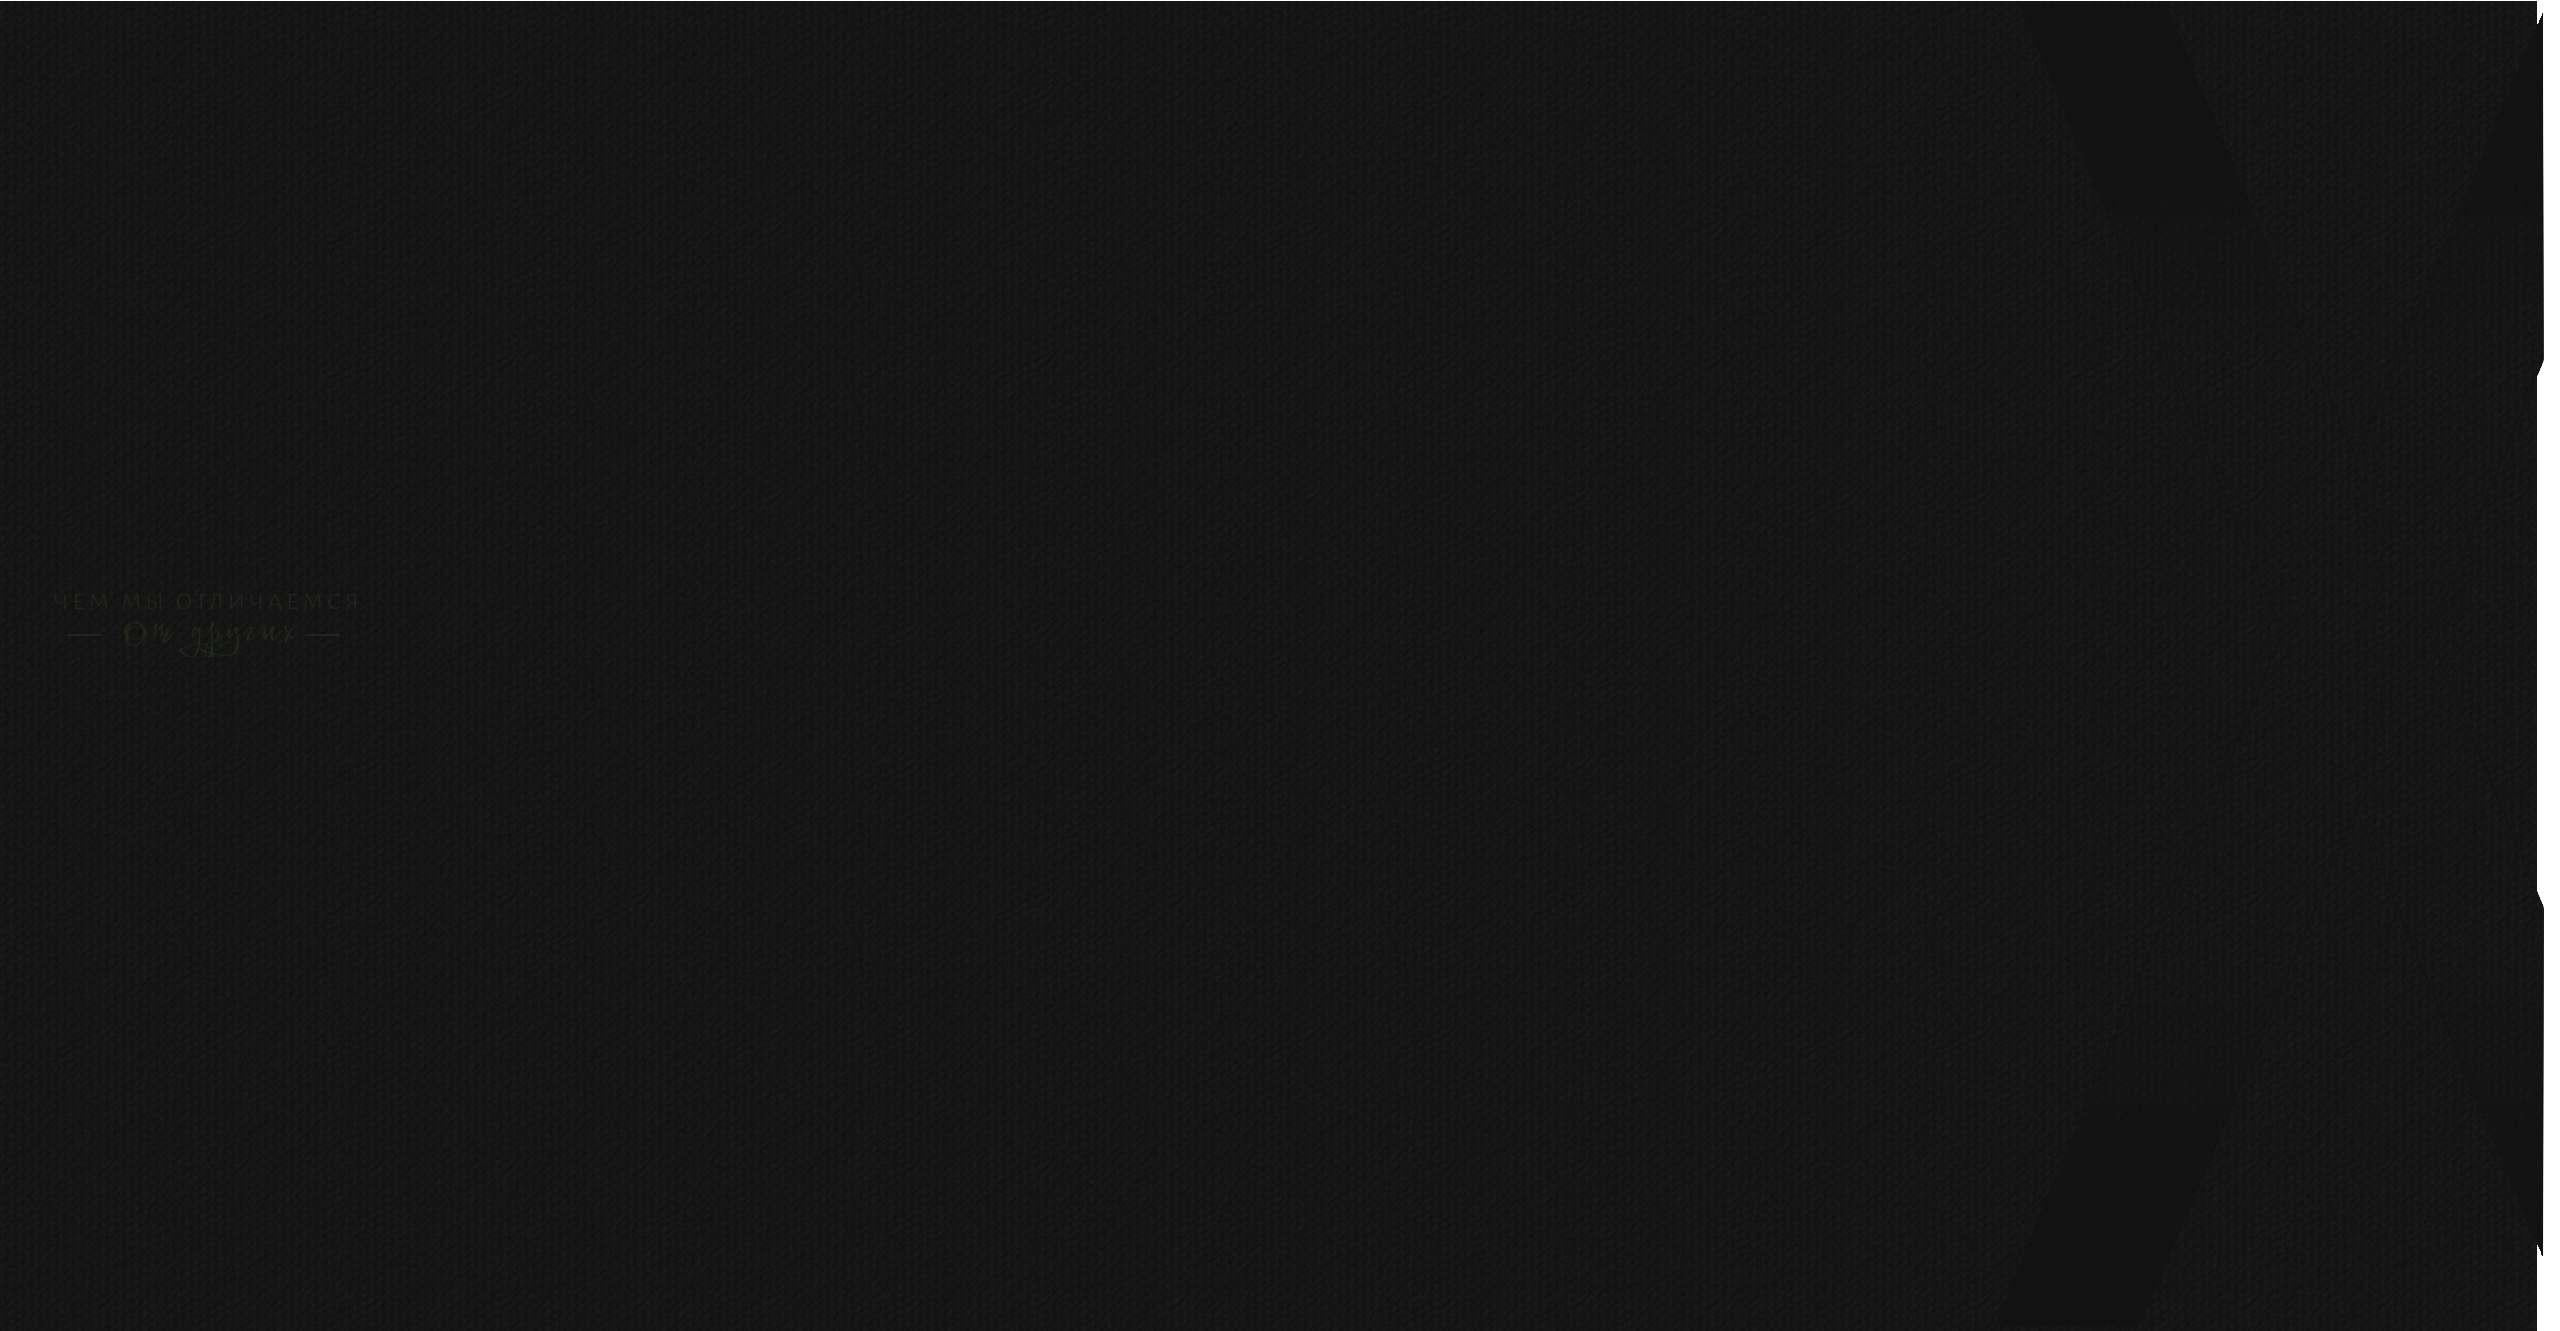
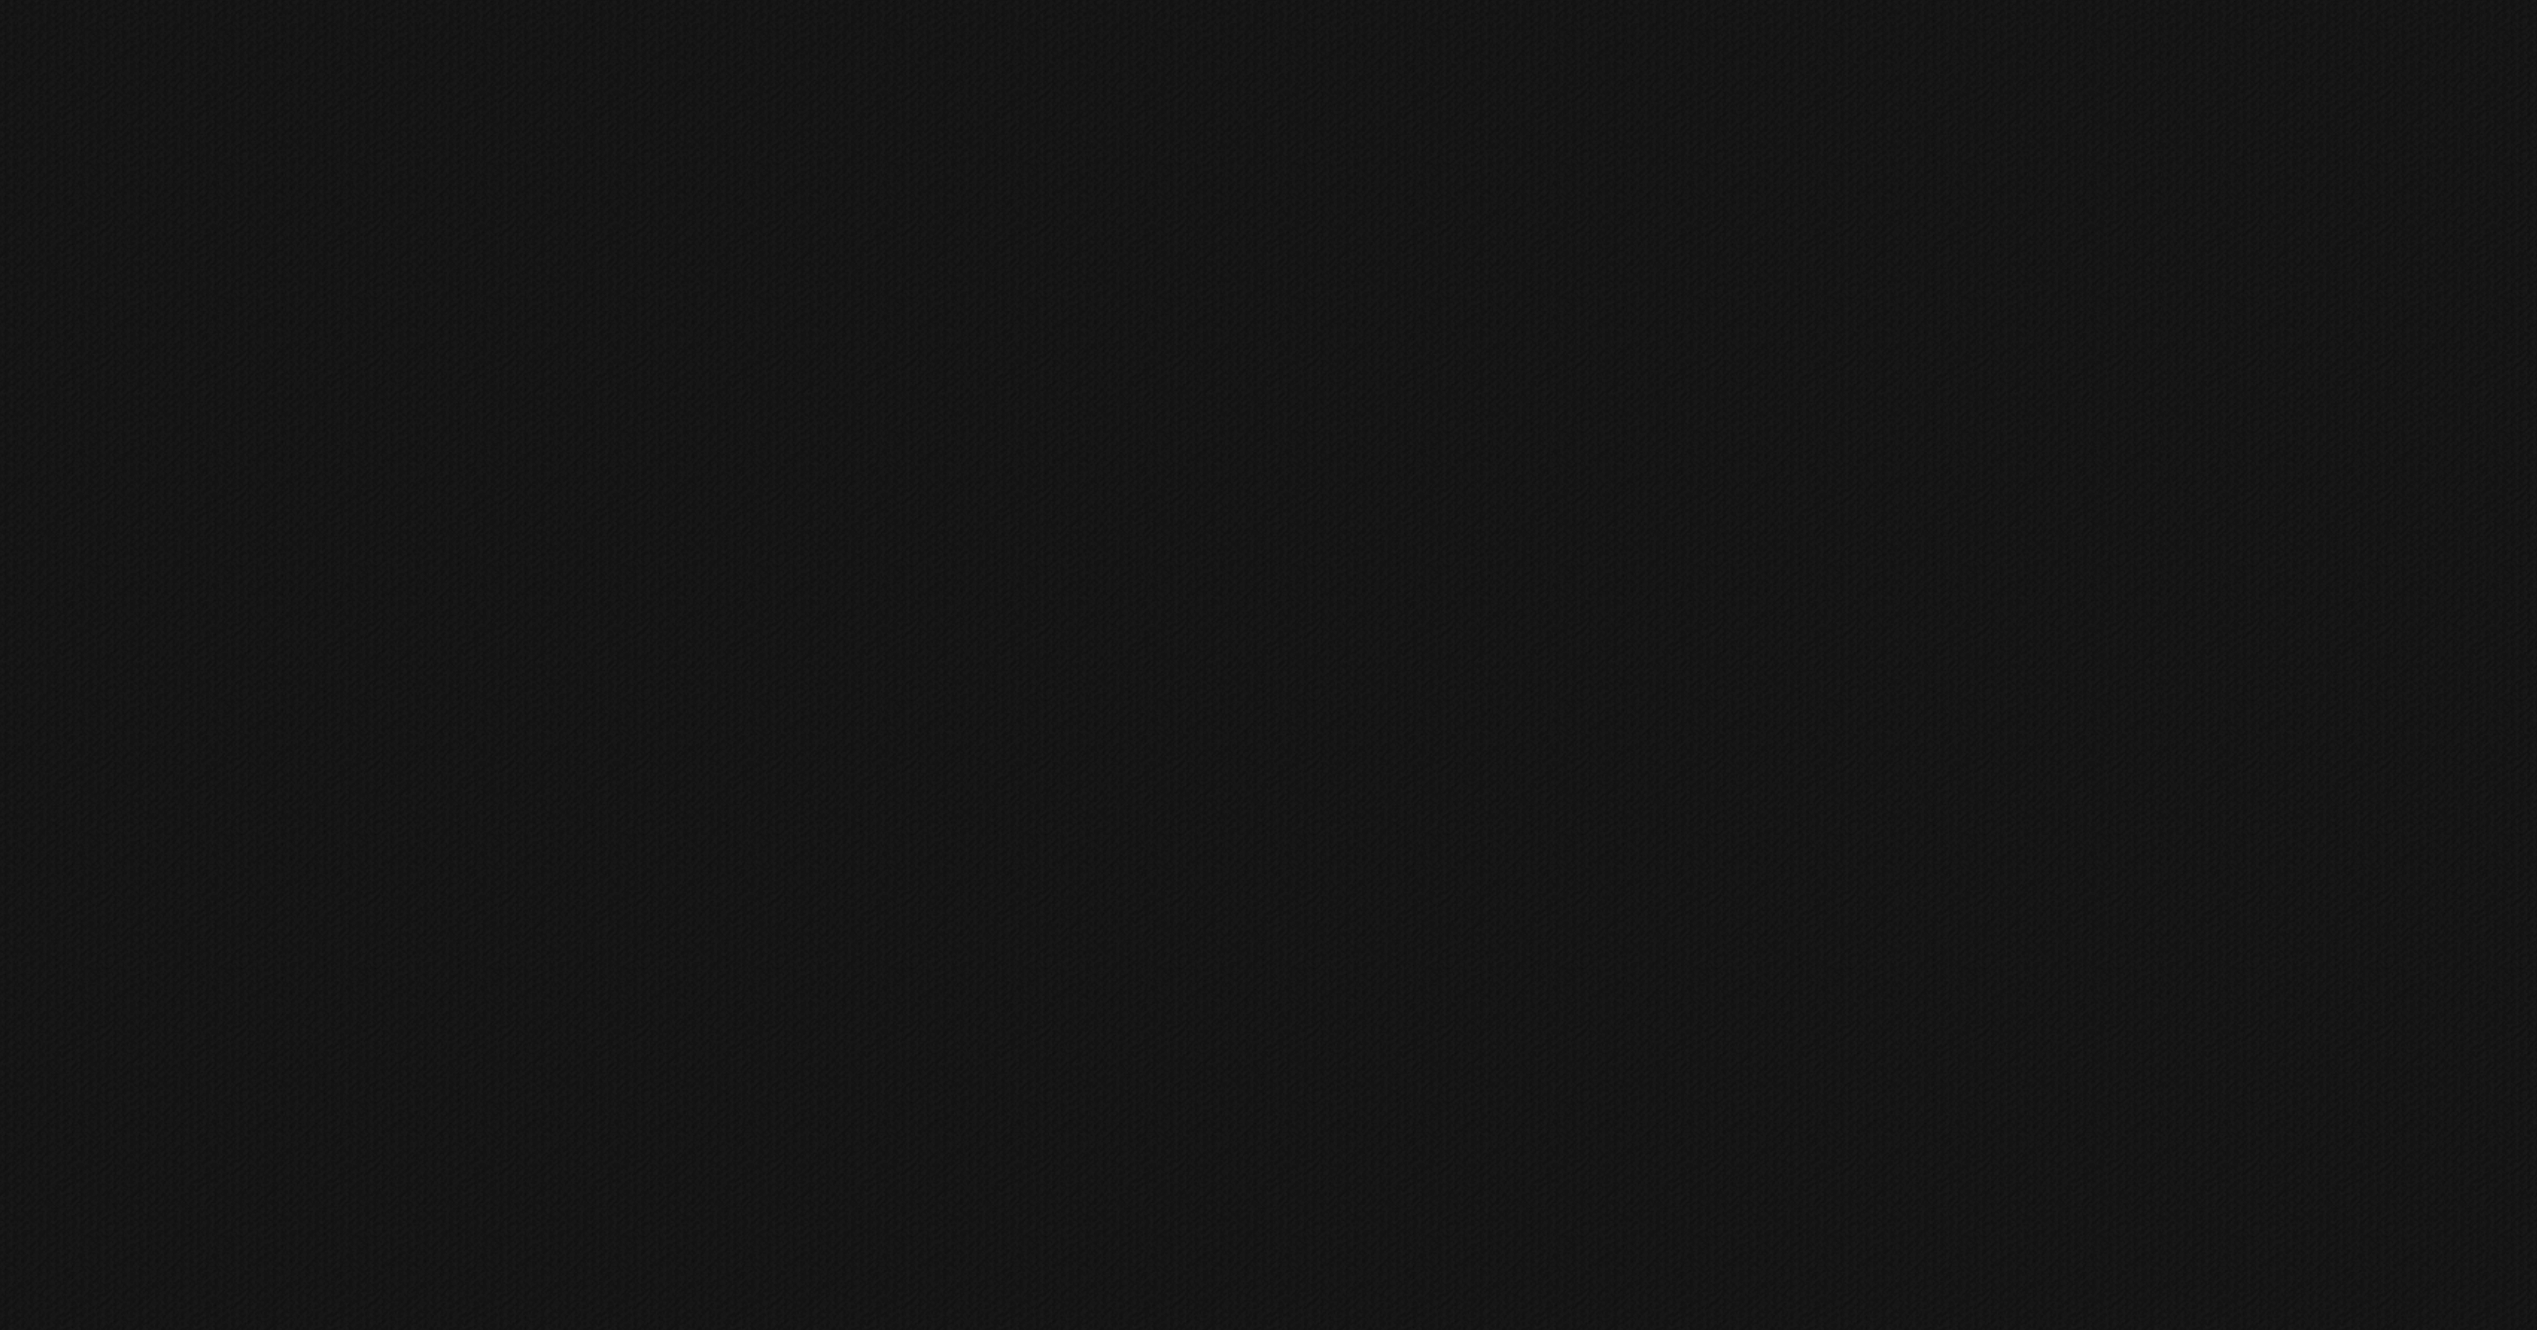
fixes

Changed region(s): [[0.9653, 0.0, 1.0, 1.0]]

diff --git a/css/styles-merged.css b/css/styles-merged.css
@@ -52,12 +52,12 @@ body {
 }
 
 .differences {
-  background: url(../img/diff-bg.png) right no-repeat fixed;
+  background: url(../img/diff-bg.png) left no-repeat;
   background-size: cover;
 }
 
 .about {
-  background: url(../img/diff-bg.png) right no-repeat fixed;
+  background: url(../img/diff-bg.png) left no-repeat;
   background-size: cover;
 }
 
